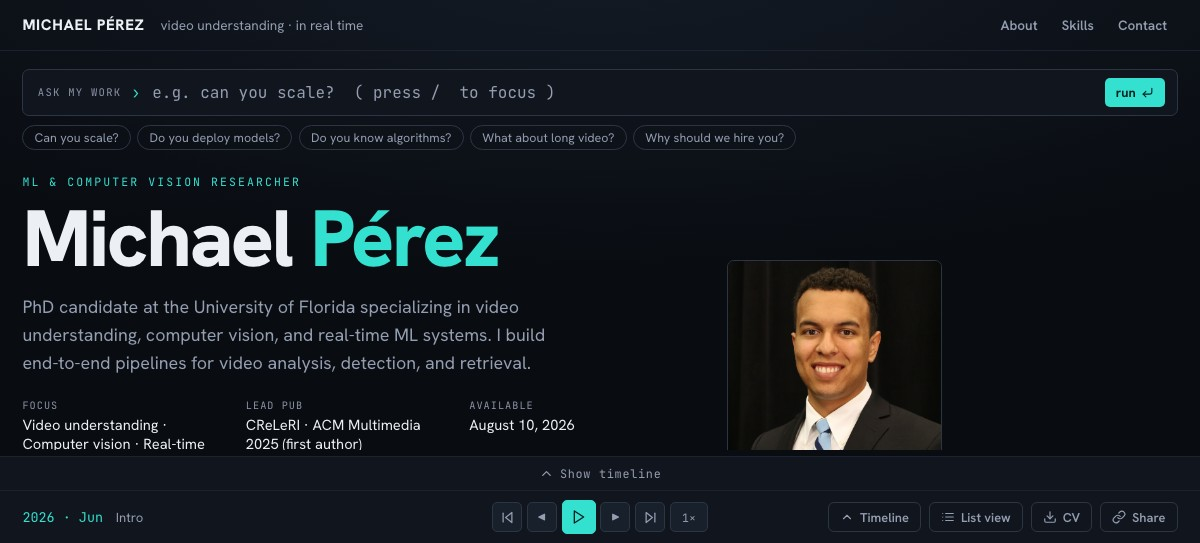
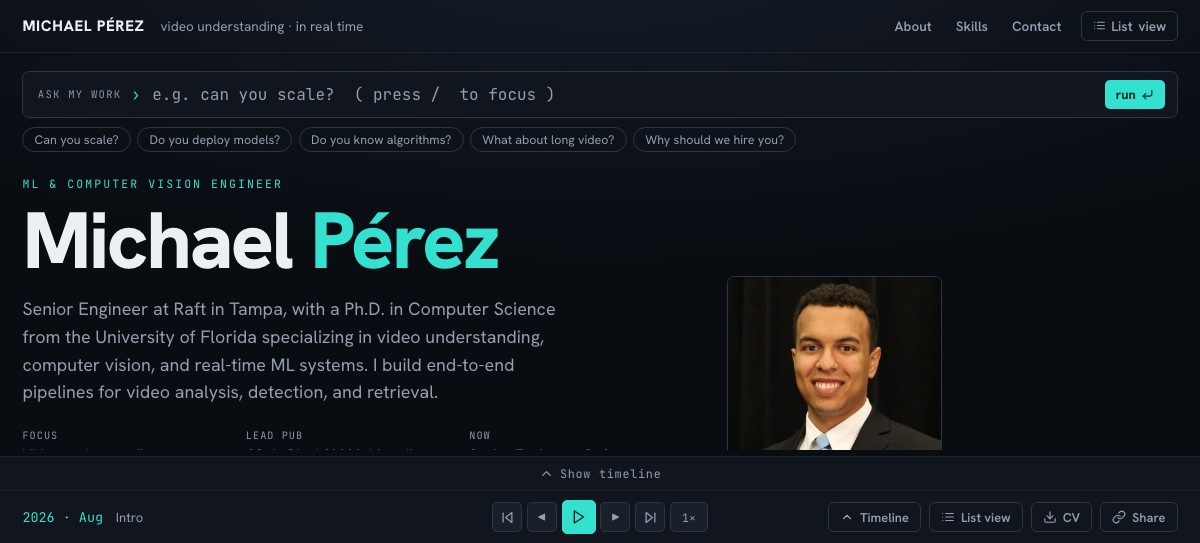
Life updates: Ph.D. completed, Senior Engineer at Raft, ICXR 2026 review
- Ph.D. in CS completed August 7, 2026: education, About, tagline, and the
  Ph.D. era in the timeline now end at 2026; "expected" dropped.
- Joined Raft (Tampa, FL) as Senior Engineer on August 10, 2026: new
  experience entry + timeline bar; UF RA/TA roles closed out at graduation;
  location updated to Tampa.
- No longer job-seeking: intro facts swap Available/Open-to for Now (Raft) and
  Ph.D.; Contact + List view + availability/hiring query answers now say off
  the market but happy to connect; index.html/OG descriptions updated and the
  OG hero image regenerated.
- Service: peer review for ICXR 2026 added to the service data and the query
  answer, and List view gains a Service section so it's actually visible.

diff --git a/src/data/content.js b/src/data/content.js
@@ -4,12 +4,12 @@
 export const information = {
   name: "Michael Pérez",
   fullName: "Michael Francis Pérez",
-  role: "ML & Computer Vision Researcher",
+  role: "ML & Computer Vision Engineer",
   tagline:
-    "PhD candidate at the University of Florida specializing in video understanding, computer vision, and real-time ML systems. I build end-to-end pipelines for video analysis, detection, and retrieval.",
-  location: "Gainesville, Florida",
+    "Senior Engineer at Raft in Tampa, with a Ph.D. in Computer Science from the University of Florida specializing in video understanding, computer vision, and real-time ML systems. I build end-to-end pipelines for video analysis, detection, and retrieval.",
+  location: "Tampa, Florida",
   availability:
-    "Available August 10, 2026 for full-time ML / AI Engineer roles — on-site, hybrid, or remote, and open to relocating.",
+    "In August 2026 I completed my Ph.D. and joined Raft in Tampa, FL as a Senior Engineer — I'm not currently looking for new roles, but I'm always happy to connect.",
   email: "michaelperez012@ufl.edu",
   headshot: "/images/headshot.jpg",
   cvFile: "/files/CV.pdf",
@@ -22,14 +22,14 @@ export const information = {
 
 export const about = {
   paragraphs: [
-    "I'm a PhD candidate in Computer Science at the University of Florida specializing in video understanding, computer vision, and real-time ML systems. I design and deploy end-to-end pipelines for video analysis, including detection, segmentation, and retrieval, across both real-time and offline settings.",
-    "My research spans two DARPA-funded programs at the Ruiz HCI Lab: CReLeRI, an explainable long-video analysis system published at ACM Multimedia 2025, and ENKIx, a real-time AR task-guidance system. I also build scalable systems for processing and indexing large-scale video data.",
+    "I hold a Ph.D. in Computer Science from the University of Florida (August 2026), specializing in video understanding, computer vision, and real-time ML systems, and I'm now a Senior Engineer at Raft in Tampa, FL. I design and deploy end-to-end pipelines for video analysis, including detection, segmentation, and retrieval, across both real-time and offline settings.",
+    "My doctoral research spanned two DARPA-funded programs at the Ruiz HCI Lab: CReLeRI, an explainable long-video analysis system published at ACM Multimedia 2025, and ENKIx, a real-time AR task-guidance system. I also built scalable systems for processing and indexing large-scale video data.",
   ],
   facts: [
     { label: "Focus", value: "Video understanding · Computer vision · Real-time ML" },
     { label: "Lead pub", value: "CReLeRI · ACM Multimedia 2025 (first author)" },
-    { label: "Available", value: "August 10, 2026" },
-    { label: "Open to", value: "Full-time ML / AI Engineer · remote, on-site, or relocate" },
+    { label: "Now", value: "Senior Engineer · Raft · Tampa, FL" },
+    { label: "Ph.D.", value: "Computer Science · University of Florida · 2026" },
   ],
 };
 
@@ -179,6 +179,14 @@ export const preprints = [
 
 export const workingExperience = [
   {
+    id: 6,
+    year: "Aug 2026 – Present",
+    position: "Senior Engineer",
+    company: "Raft",
+    location: "Tampa, FL",
+    details: "Joined Raft as a Senior Engineer in August 2026.",
+  },
+  {
     id: 1,
     year: "May – Aug 2025",
     position: "Machine Learning Engineer Intern",
@@ -189,7 +197,7 @@ export const workingExperience = [
   },
   {
     id: 2,
-    year: "2023 – Present",
+    year: "2023 – 2026",
     position: "Graduate Research Assistant",
     company: "Ruiz HCI Lab & Data Science Research Lab, University of Florida",
     location: "Gainesville, FL",
@@ -198,7 +206,7 @@ export const workingExperience = [
   },
   {
     id: 3,
-    year: "2020 – Present",
+    year: "2020 – 2026",
     position: "Graduate Teaching Assistant",
     company: "CISE Department, University of Florida",
     location: "Gainesville, FL",
@@ -228,7 +236,7 @@ export const workingExperience = [
 export const education = [
   {
     id: 1,
-    year: "2020 – 2026 (expected)",
+    year: "2020 – 2026",
     degree: "Ph.D. in Computer Science",
     school: "University of Florida",
   },
@@ -317,6 +325,7 @@ export const honors = [
 ];
 
 export const service = [
+  { id: 6, year: "2026", role: "Peer Reviewer", venue: "ICXR 2026" },
   { id: 1, year: "2026", role: "Peer Reviewer", venue: "ACM ICMR 2026" },
   { id: 2, year: "2025", role: "Peer Reviewer", venue: "ACM Multimedia 2025" },
   {

diff --git a/src/redesign/retrieval.js b/src/redesign/retrieval.js
@@ -189,20 +189,20 @@ const TOPICS = [
   {
     keys: ["service", "peer review"],
     answer:
-      "I serve the community as a peer reviewer for ACM Multimedia 2025 and ACM ICMR 2026, co-chaired UF's Human-Centered Data Science Seminar, and reviewed for IEEE VR 2024 [[r-creleri]].",
+      "I serve the community as a peer reviewer for ACM Multimedia 2025, ACM ICMR 2026, and ICXR 2026, co-chaired UF's Human-Centered Data Science Seminar, and reviewed for IEEE VR 2024 [[r-creleri]].",
     attend: ["r-creleri"],
   },
   {
     keys: ["hiring", "why hire", "strengths", "good fit", "stand out"],
     answer:
-      "You'd get someone who pairs publishable research with the engineering to put it to work — I prototype the model and build the pipeline around it. That range shows up as a first-author paper at ACM Multimedia 2025 [[r-creleri]], published infrared video super-resolution work from my CoVar internship [[e-covar]], and a distributed simulator whose convergence I verified past 2,000,000 nodes [[p-gossip]] — research velocity backed by real engineering discipline.",
-    attend: ["r-creleri", "e-covar", "p-gossip"],
+      "Fair warning: I'm off the market — I joined Raft as a Senior Engineer in August 2026 [[e-raft]]. But the case I made still stands: I pair publishable research with the engineering to put it to work. That range shows up as a first-author paper at ACM Multimedia 2025 [[r-creleri]], published infrared video super-resolution work from my CoVar internship [[e-covar]], and a distributed simulator whose convergence I verified past 2,000,000 nodes [[p-gossip]].",
+    attend: ["e-raft", "r-creleri", "e-covar", "p-gossip"],
   },
   {
-    keys: ["availability", "graduate", "when", "start", "relocate"],
+    keys: ["availability", "graduate", "when", "start", "relocate", "raft", "tampa"],
     answer:
-      "I'm a PhD candidate at UF, available to start full-time on August 10, 2026 — open to ML / AI Engineer roles on-site, hybrid, or remote, and happy to relocate. Reach me via the Contact section to talk timelines [[r-creleri]].",
-    attend: ["r-creleri"],
+      "I completed my Ph.D. in Computer Science at UF in August 2026 and joined Raft in Tampa, FL as a Senior Engineer [[e-raft]] — so I'm not looking for new roles right now. Always happy to connect about research or interesting problems, though: see the Contact section.",
+    attend: ["e-raft"],
   },
 ];
 
@@ -229,6 +229,7 @@ const AUGMENT = {
   "p-hermes": "flutter mobile dart app tracking",
   "r-temporal": "video retrieval zero-shot temporal granularity",
   "p-brisal": "booking website astro villa rental hospitality travel dominican republic jarabacoa bilingual spanish",
+  "e-raft": "raft senior engineer tampa florida industry full-time current job",
 };
 
 const STOP = new Set(

diff --git a/src/redesign/timelineData.js b/src/redesign/timelineData.js
@@ -86,12 +86,14 @@ const researchClips = RESEARCH.map(([item, t, key, extra]) => ({
 
 // --- experience track (real date ranges) -----------------------------------
 const COVAR_RANGE = [2025.33, 2025.62]; // CoVar internship — UF roles paused here
+const GRAD = 2026.6; // Ph.D. completed August 7, 2026 — UF roles end here
 const EXP = [
-  [workingExperience[0], COVAR_RANGE[0], COVAR_RANGE[1], "covar", { tag: "Internship" }],
-  [workingExperience[1], 2023.0, NOW, "ruiz", { tag: "DARPA", hub: true, pauses: [COVAR_RANGE] }],
-  [workingExperience[2], 2020.6, NOW, "ta", { tag: "Teaching", pauses: [COVAR_RANGE] }],
-  [workingExperience[3], 2020.6, 2023.0, "gilm", { tag: "NSF · GILM Lab" }],
-  [workingExperience[4], 2019.0, 2020.5, "rhino-ra", { tag: "Florida Poly" }],
+  [workingExperience[0], 2026.61, NOW, "raft", { tag: "Industry" }], // Raft — started Aug 10, 2026
+  [workingExperience[1], COVAR_RANGE[0], COVAR_RANGE[1], "covar", { tag: "Internship" }],
+  [workingExperience[2], 2023.0, GRAD, "ruiz", { tag: "DARPA", hub: true, pauses: [COVAR_RANGE] }],
+  [workingExperience[3], 2020.6, GRAD, "ta", { tag: "Teaching", pauses: [COVAR_RANGE] }],
+  [workingExperience[4], 2020.6, 2023.0, "gilm", { tag: "NSF · GILM Lab" }],
+  [workingExperience[5], 2019.0, 2020.5, "rhino-ra", { tag: "Florida Poly" }],
 ];
 
 const experienceClips = EXP.map(([item, t0, t1, key, extra]) => ({
@@ -153,7 +155,7 @@ const projectClips = projects.map((p) => {
 const eraDefs = [
   { label: "B.S. · Florida Poly", t0: START, t1: 2020.4 },
   { label: "M.S. · UF", t0: 2020.6, t1: 2023.4 },
-  { label: "Ph.D. · UF", t0: 2020.6, t1: NOW },
+  { label: "Ph.D. · UF", t0: 2020.6, t1: 2026.6 }, // completed Aug 2026
 ];
 const eraRowEnds = [];
 export const eras = eraDefs.map((e) => {

diff --git a/index.html b/index.html
@@ -8,7 +8,7 @@
     <title>Michael Pérez · ML &amp; Computer Vision Researcher</title>
     <meta
       name="description"
-      content="Michael Pérez is a PhD candidate at the University of Florida specializing in video understanding, computer vision, and real-time ML systems. Selected publications, research, and projects."
+      content="Michael Pérez is a Senior Engineer at Raft with a Ph.D. in Computer Science from the University of Florida, specializing in video understanding, computer vision, and real-time ML systems. Selected publications, research, and projects."
     />
     <meta name="author" content="Michael Pérez" />
 
@@ -21,7 +21,7 @@
     <meta property="og:title" content="Michael Pérez · ML &amp; Computer Vision Researcher" />
     <meta
       property="og:description"
-      content="PhD candidate at the University of Florida in video understanding, computer vision, and real-time ML. Scrub an interactive timeline of my research, projects, and experience — or just ask my work a question."
+      content="Senior Engineer at Raft · Ph.D. in Computer Science (University of Florida) · video understanding, computer vision, and real-time ML. Scrub an interactive timeline of my research, projects, and experience — or just ask my work a question."
     />
     <meta property="og:image" content="https://www.michaelfperez.com/og-image.jpg" />
     <meta property="og:image:width" content="1200" />

diff --git a/src/redesign/ListView.jsx b/src/redesign/ListView.jsx
@@ -10,6 +10,7 @@ import {
   education,
   skillGroups,
   honors,
+  service,
   projects,
 } from "../data/content";
 
@@ -101,6 +102,11 @@ export default function ListView() {
         <section>
           <h2>Education</h2>
           <ul>{education.map((e) => <li key={e.id}><span className="lv-y">{e.year}</span> {e.degree} · {e.school}</li>)}</ul>
+        </section>
+
+        <section>
+          <h2>Service</h2>
+          <ul>{service.map((s) => <li key={s.id}><span className="lv-y">{s.year}</span> {s.role} — {s.venue}</li>)}</ul>
         </section>
 
         <section>
